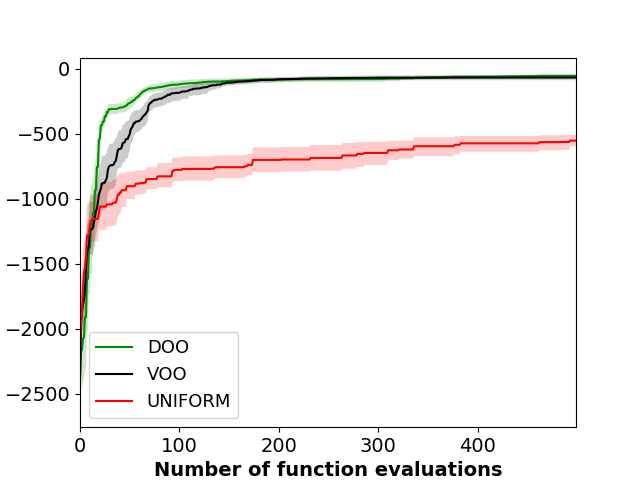
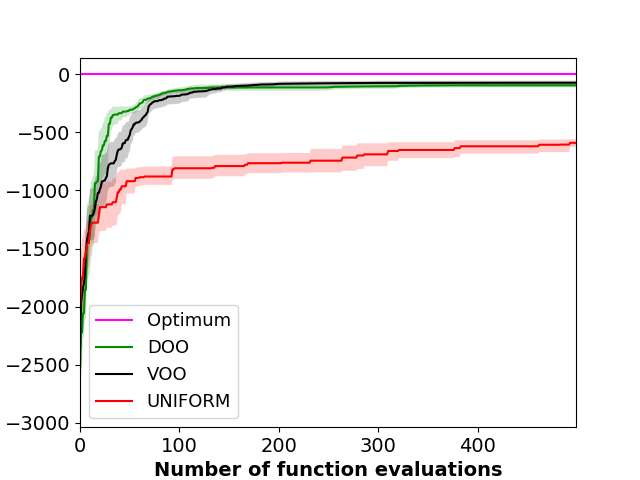
3

Changed region(s): [[0.0312, 0.125, 0.9062, 0.9062], [0.2188, 0.625, 0.375, 0.6875], [0.0312, 0.25, 0.125, 0.3125]]

diff --git a/plotters/plot_optimization_algorithms.py b/plotters/plot_optimization_algorithms.py
@@ -126,6 +126,9 @@ def plot_across_algorithms():
     color_dict[color_names[2]] = [1, 0, 0]
     color_dict[color_names[3]] = [0, 0, 1]
 
+    if args.obj_fcn != 'shekel':
+        sns.tsplot([0]*2000, range(2000), ci=95, condition='Optimum', color='magenta')
+
     for algo_idx, algo in enumerate(algo_names):
         print algo
         search_rwd_times, time_takens = get_results(algo, n_dim, args.obj_fcn)
